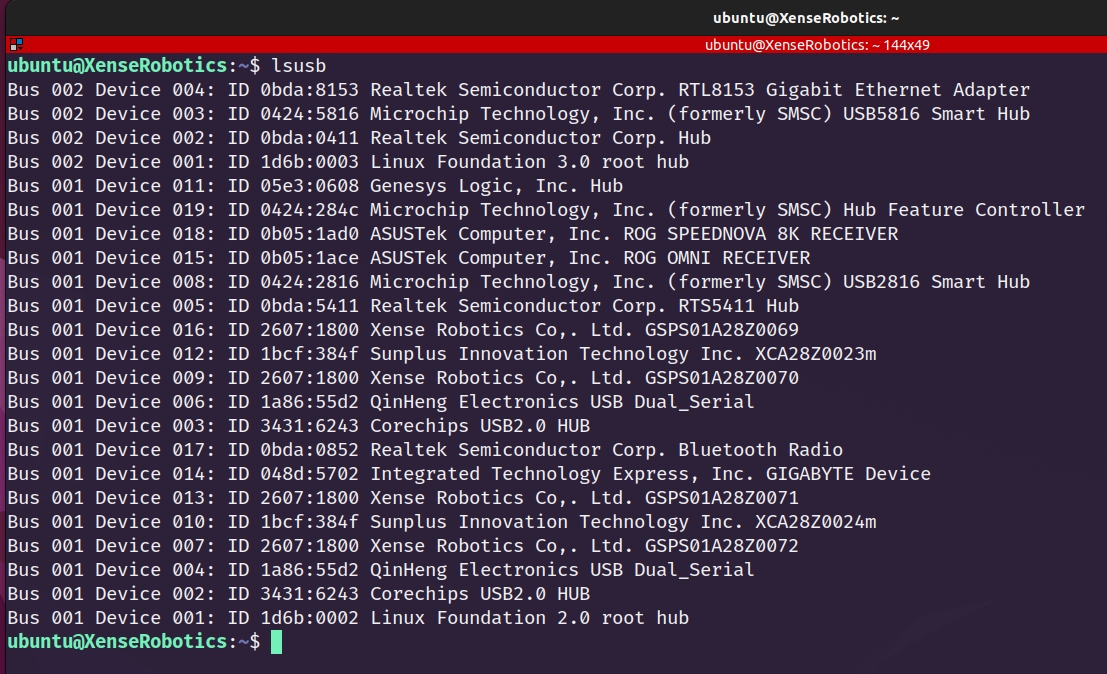
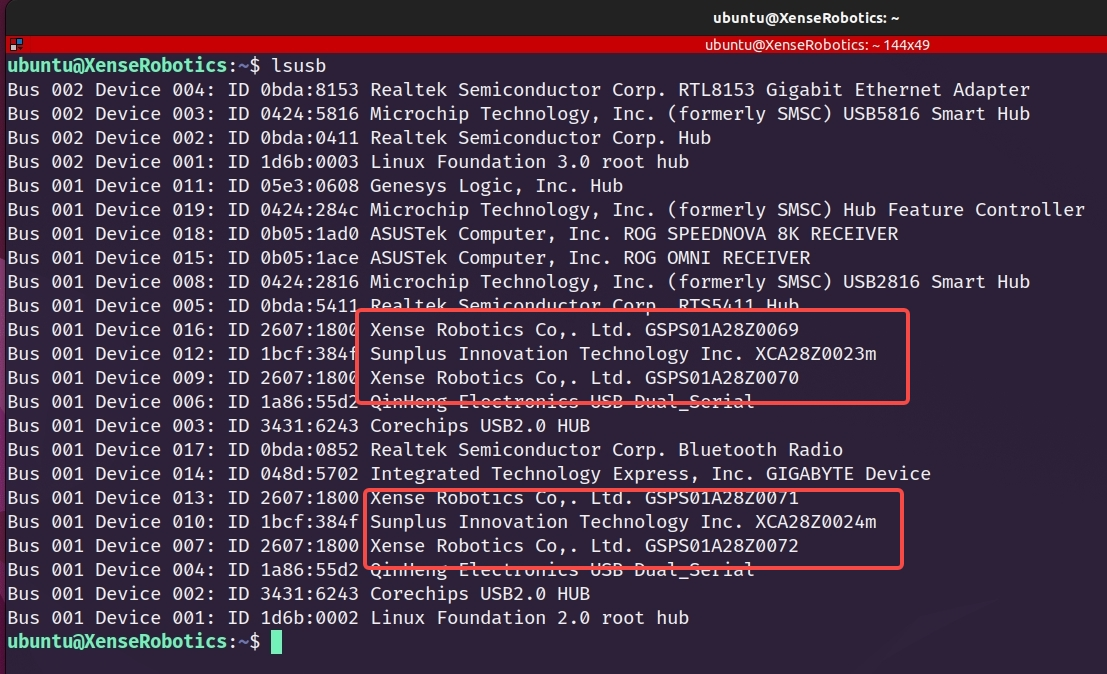
docs: lsusb screenshot gains annotation boxes; caption follows them
The updated image boxes the two groups of three UVC devices — one box per
gripper, each holding that arm's wrist camera and its two tactile
sensors. The caption grouped by device type instead, so it described a
different reading of the same picture than the boxes did.

Rewritten to lead with what the boxes show: one box per gripper, three
devices each, hence six on a bimanual rig and three on a single. The MCU
serial line sits just outside each box and is called out as such.

Changed region(s): [[0.3071, 0.4362, 0.8293, 0.6231], [0.3071, 0.7166, 0.8293, 0.8724]]

diff --git a/docs/hardware.md b/docs/hardware.md
@@ -78,16 +78,18 @@ lsusb
 
 ![双臂接好后的 lsusb 输出](assets/hardware/lsusb.jpg){ width="720" }
 
-上图是**双臂**接好后的实际输出,对照着看三类设备:
+上图是**双臂**接好后的实际输出。**两个红框各对应一只主夹爪**,每框内是这只爪的 3 个 UVC 设备:
 
-| 输出里的字样 | 是什么 | 双臂应有 |
+| 框内字样 | 是什么 | 每只主爪 |
 |---|---|---|
-| `Xense Robotics ... GSPS01…` | 视触觉传感器 | **4 个** |
-| `Sunplus ... XCA…` | 腕部鱼眼相机 | **2 个** |
-| `QinHeng Electronics USB Dual_Serial` | 夹爪 MCU 串口 | **2 个** |
+| `Xense Robotics ... GSPS01…` | 视触觉传感器 | 2 个 |
+| `Sunplus ... XCA…` | 腕部鱼眼相机 | 1 个 |
 
-序列号末位还能直接看出左右(单左双右,见 [序列号与左右识别](#sn))——图中 `…0069`/`…0071` 是左,
-`…0070`/`…0072` 是右。其余条目是主机自身的 hub、网卡、蓝牙等,与夹爪无关。
+所以**双臂共 6 个 UVC**、单臂 3 个。框外紧邻的 `QinHeng Electronics USB Dual_Serial`
+是夹爪 MCU 串口,**每只爪 1 个**;其余条目是主机自身的 hub、网卡、蓝牙等,与夹爪无关。
+
+序列号末位还能直接看出左右(单左双右,见 [序列号与左右识别](#sn)):图中 `…0069`/`…0071`
+是左,`…0070`/`…0072` 是右。
 
 数量不对时,检查线缆是否锁紧、USB 口是否接触良好;排查见 [异常排查](#troubleshoot)。
 
